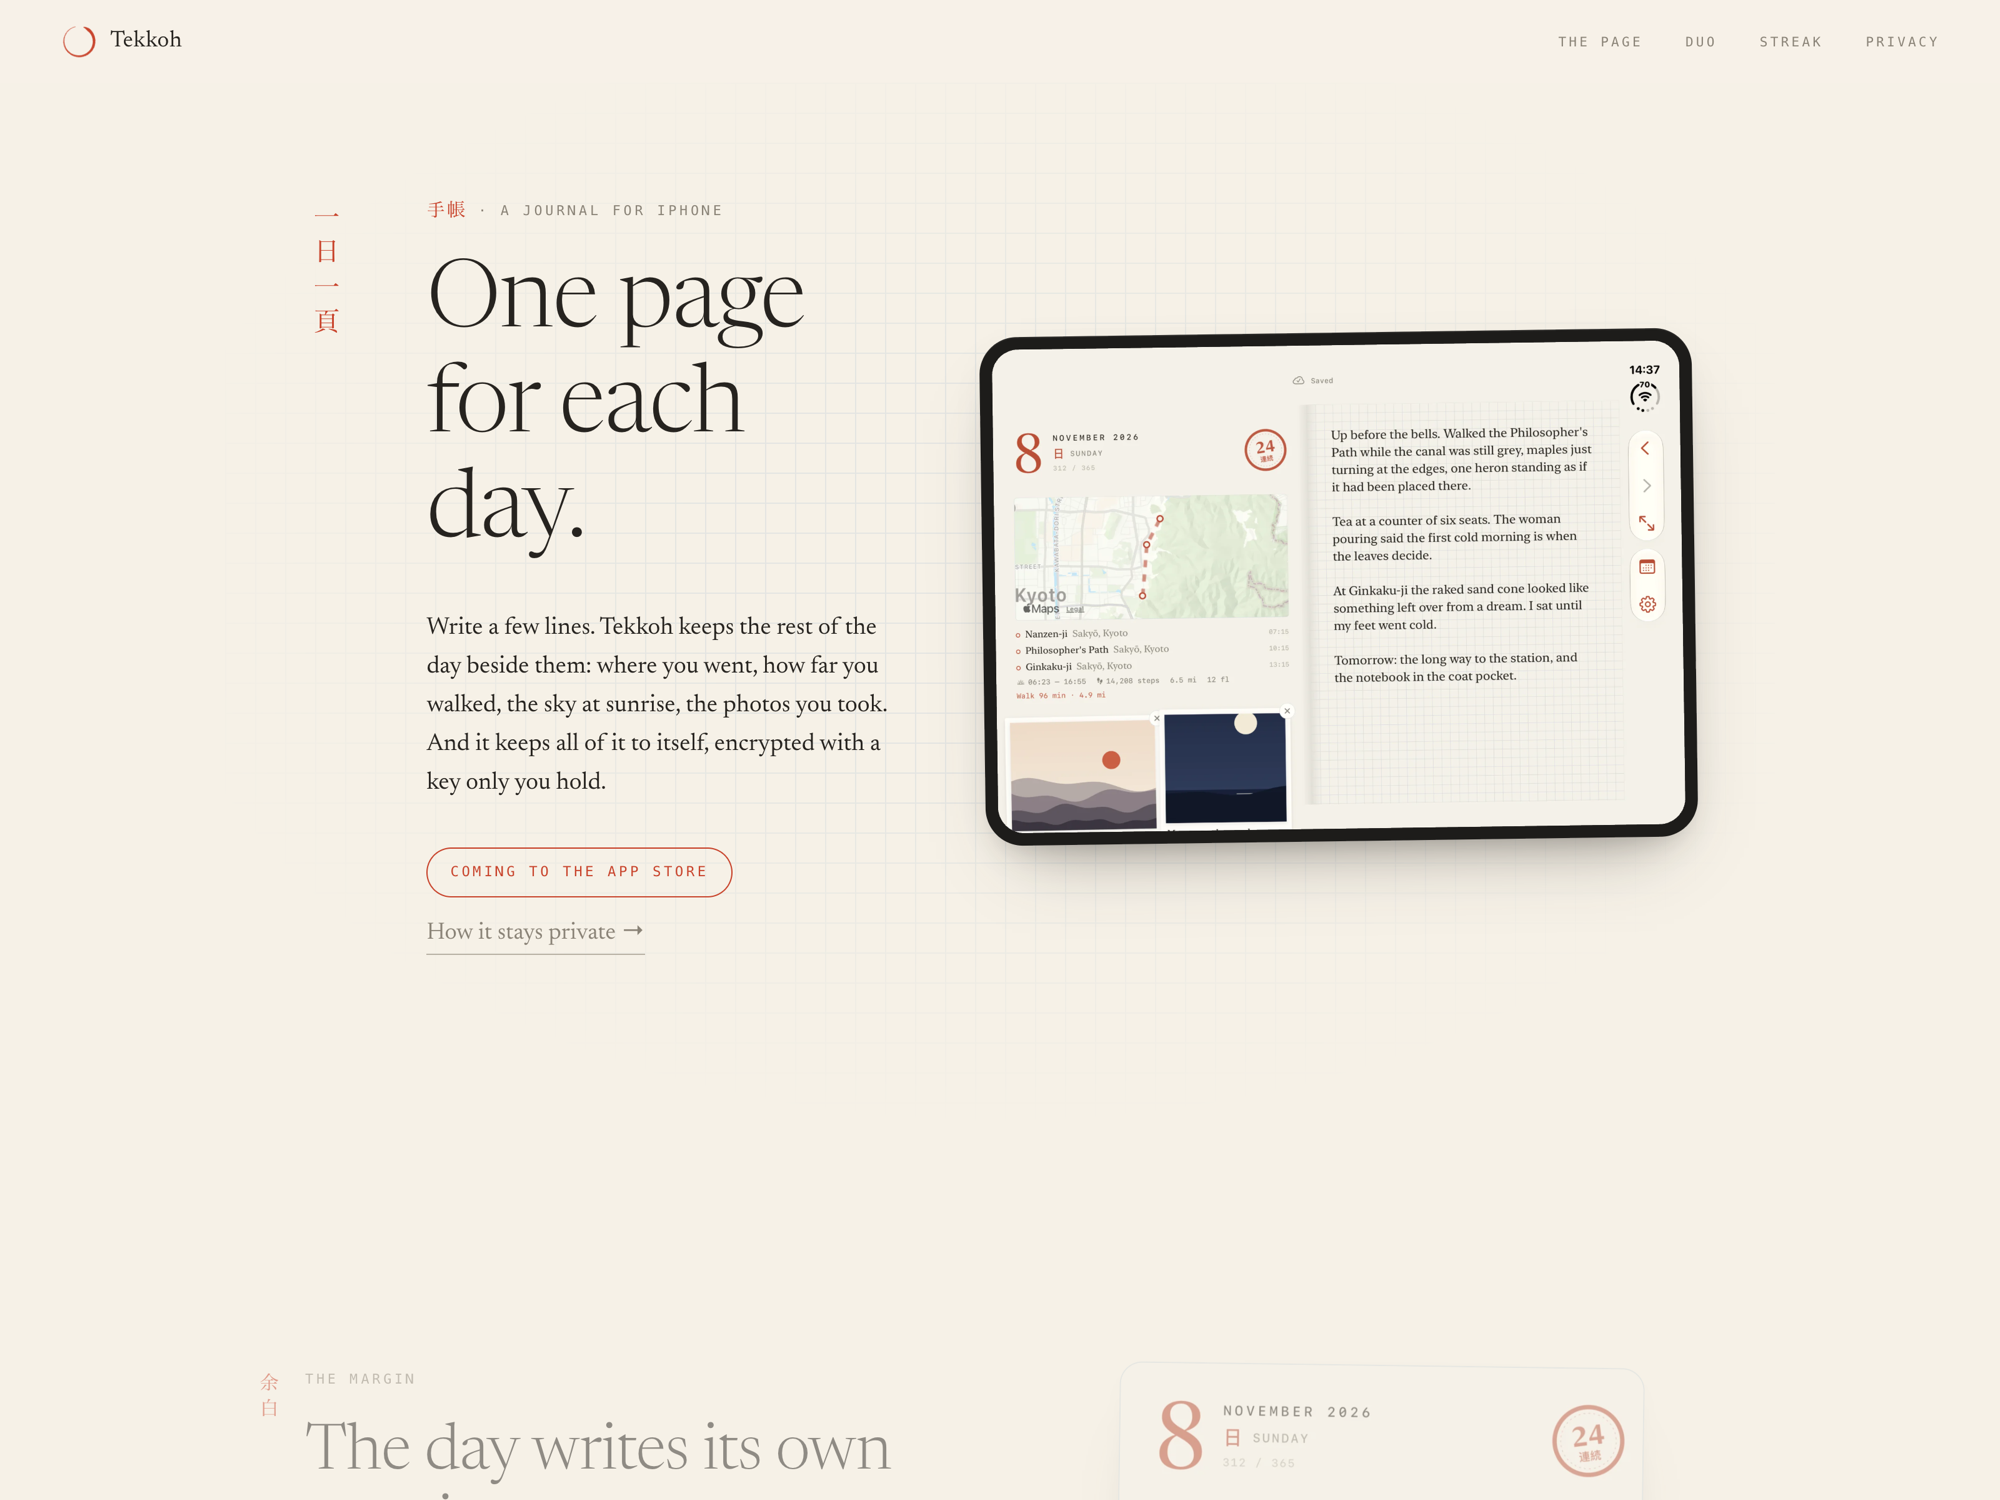
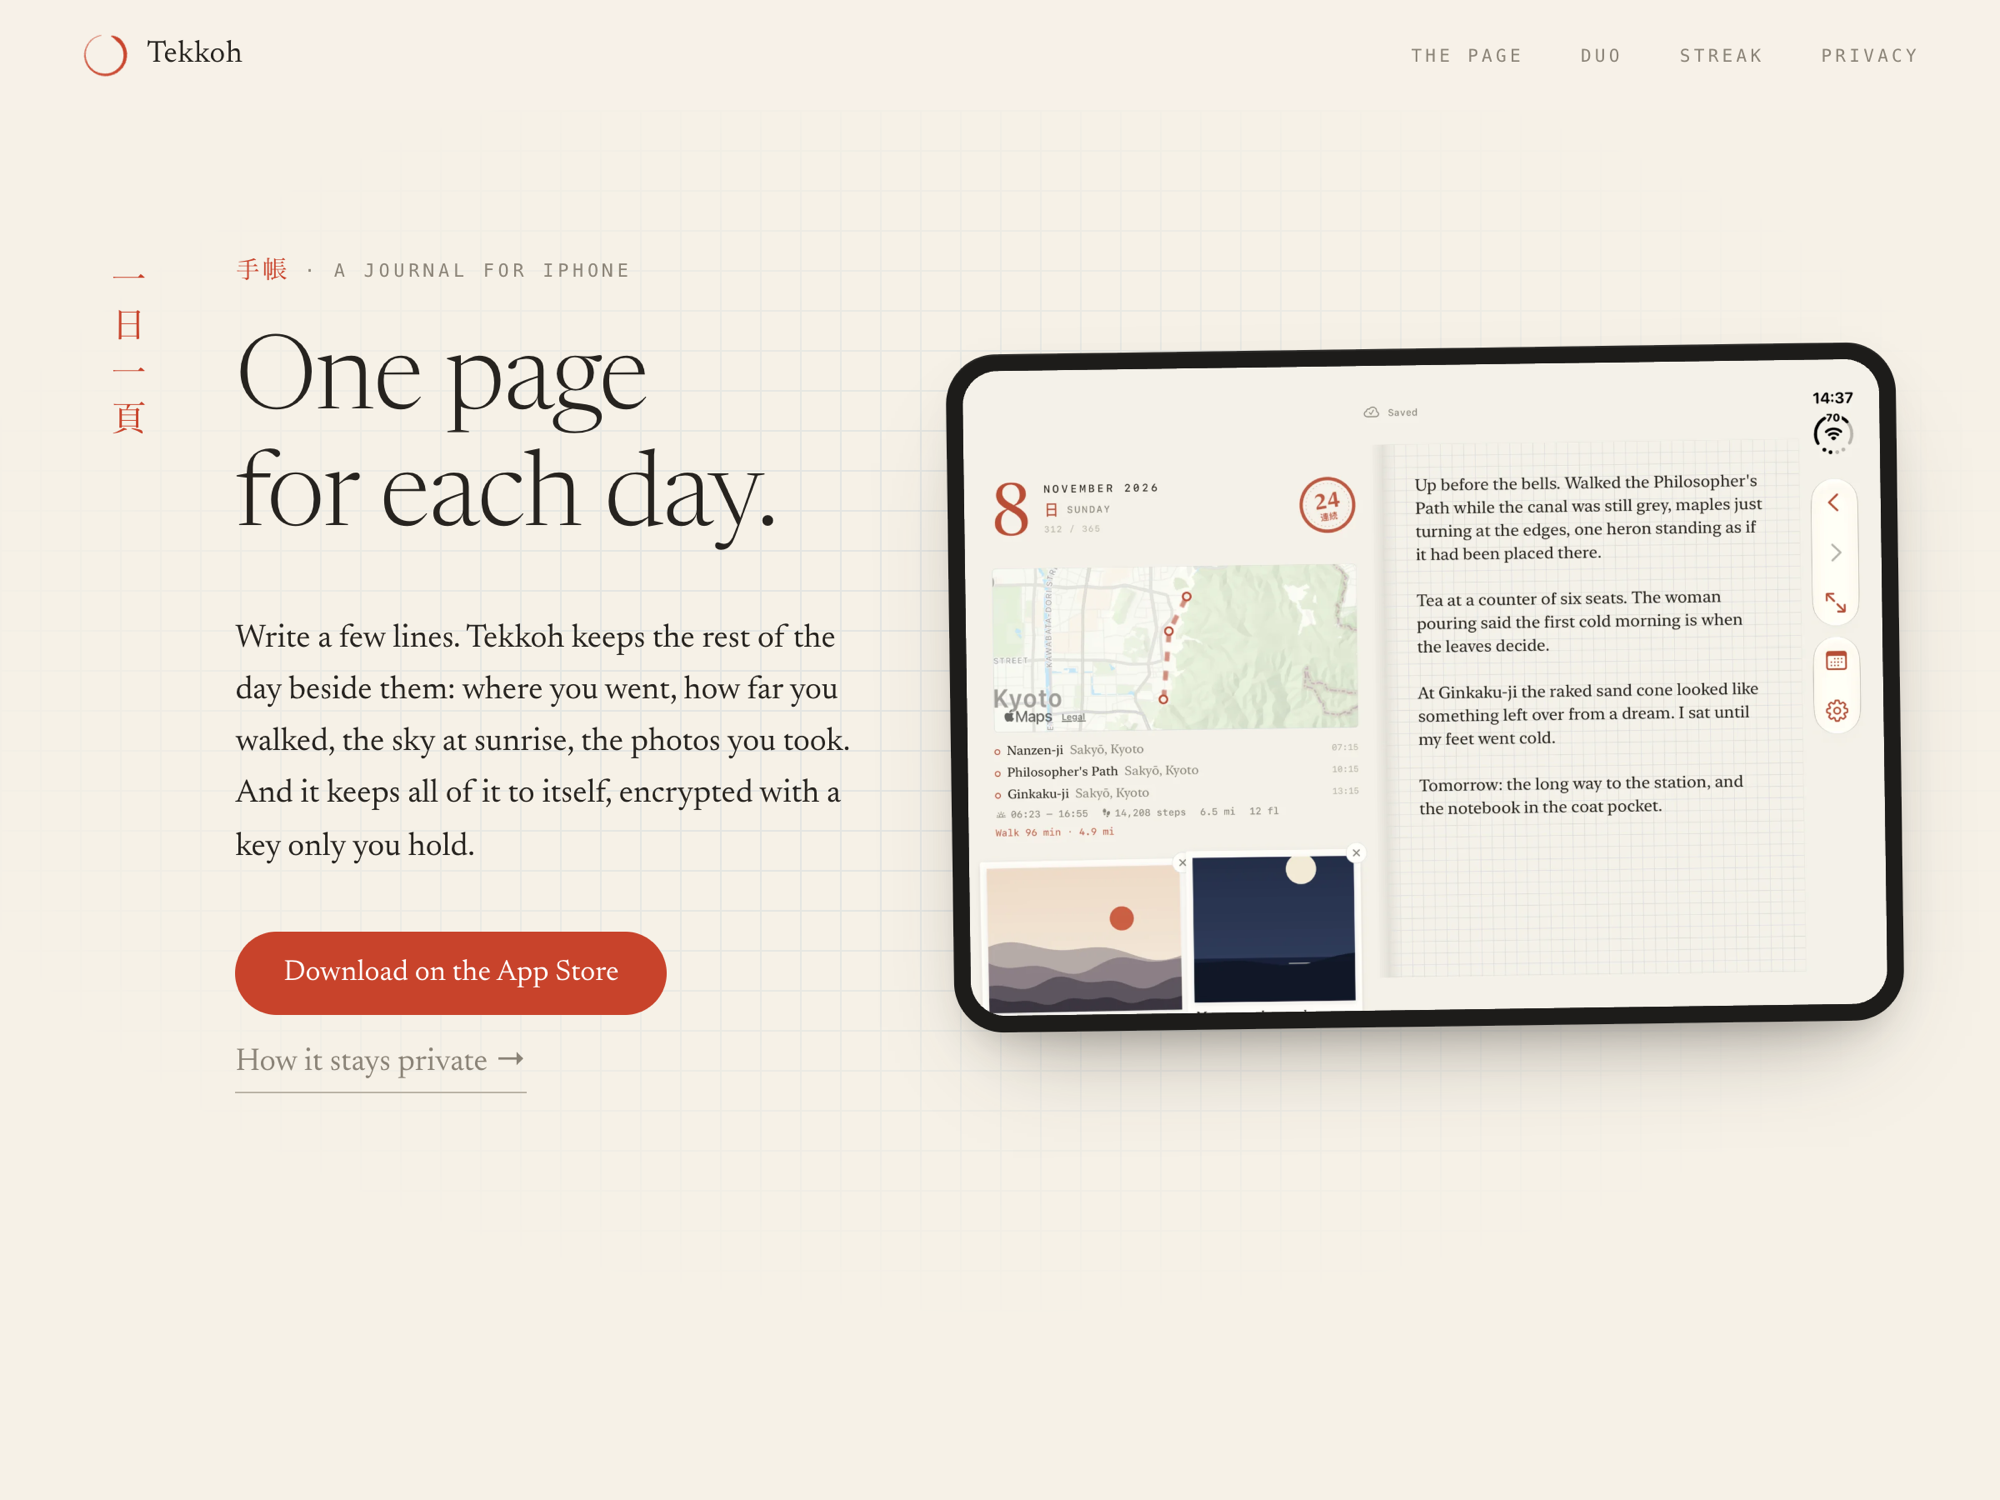
Say Tekkoh is on the App Store in the catalogue entry and recapture the landing page

diff --git a/.artifact/tekkoh.md b/.artifact/tekkoh.md
@@ -20,14 +20,12 @@ media:
     caption: The margin of one page, with the stamp of a 24-day streak, a map of the day's places and their arrival times, the step count and walking distance, and two photos
     alt: A phone-sized journal page with the date, a 24-day streak stamp, a map of Kyoto, three visited places with times, step count and two photo prints
 credits: [dps]
-unconfirmed:
-  - date
 ---
 
 After the Hobonichi Techo, Tekkoh gives each day one page of cream grid paper, on an iPhone. The writing is set on a 12-point grid, and the margin is filled in from the phone: the places visited that day and a map of them, the steps, distance and workouts from Apple Health, the times of sunrise and sunset, and photos from that day's camera roll.
 
 On iPhone Duo the inside display opens a day as a two-page spread, shown in the second image, with the margin on the left page, the writing on the right and the fold on the spine. A vermillion hanko stamp on today's page gives the streak of days written. At 9:30 pm, if the page is still blank, a notification states the length of the streak and that it ends at midnight. The widget sets the weekday in kanji and the streak inside an ensō, which is pale until today's page is written and grey once the streak has ended.
 
-Entries are encrypted on the phone with a key kept in the Keychain, and the server stores a copy it cannot read. A six-digit PIN restores the key on a new phone, and after ten wrong PINs the server wipes its locked copy of the key. The journal reads and writes offline; when two devices have changed the same day, their words are put one after the other with a divider between them. A web version and a command-line tool for personal agents use the same server. The app has not been released; tekkoh.com reads "Coming to the App Store".
+Entries are encrypted on the phone with a key kept in the Keychain, and the server stores a copy it cannot read. A six-digit PIN restores the key on a new phone, and after ten wrong PINs the server wipes its locked copy of the key. The journal reads and writes offline; when two devices have changed the same day, their words are put one after the other with a divider between them. A web version and a command-line tool for personal agents use the same server. Version 1.0 is on the App Store, for iOS 27.1 or later.
 
 Swift, SwiftUI, WidgetKit, with a Go server. 2026.
